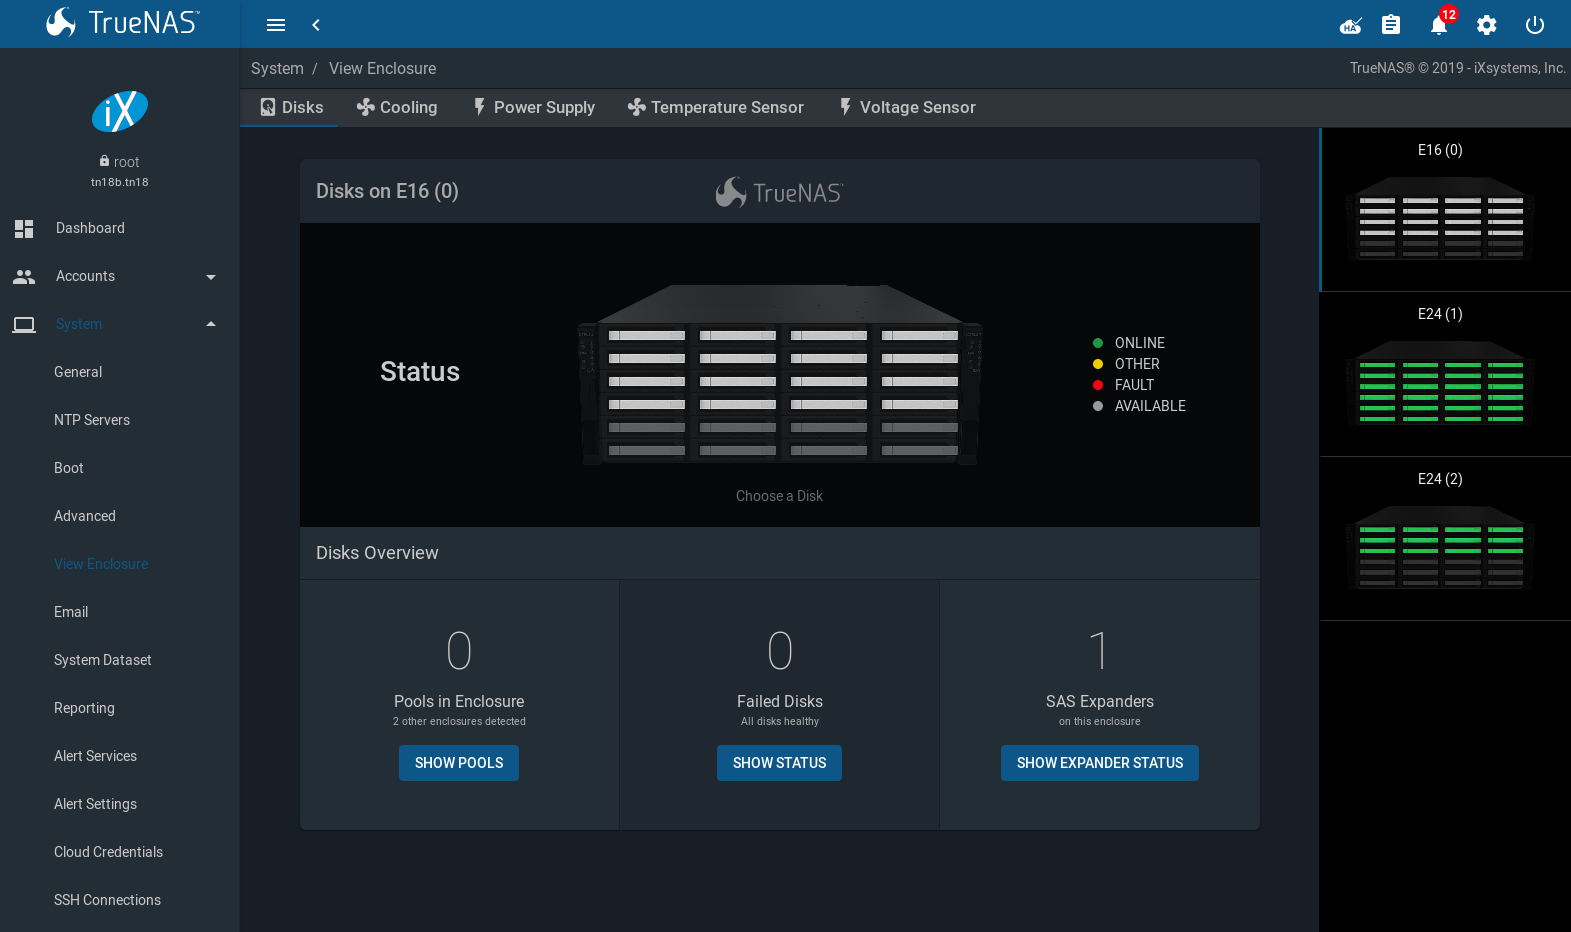
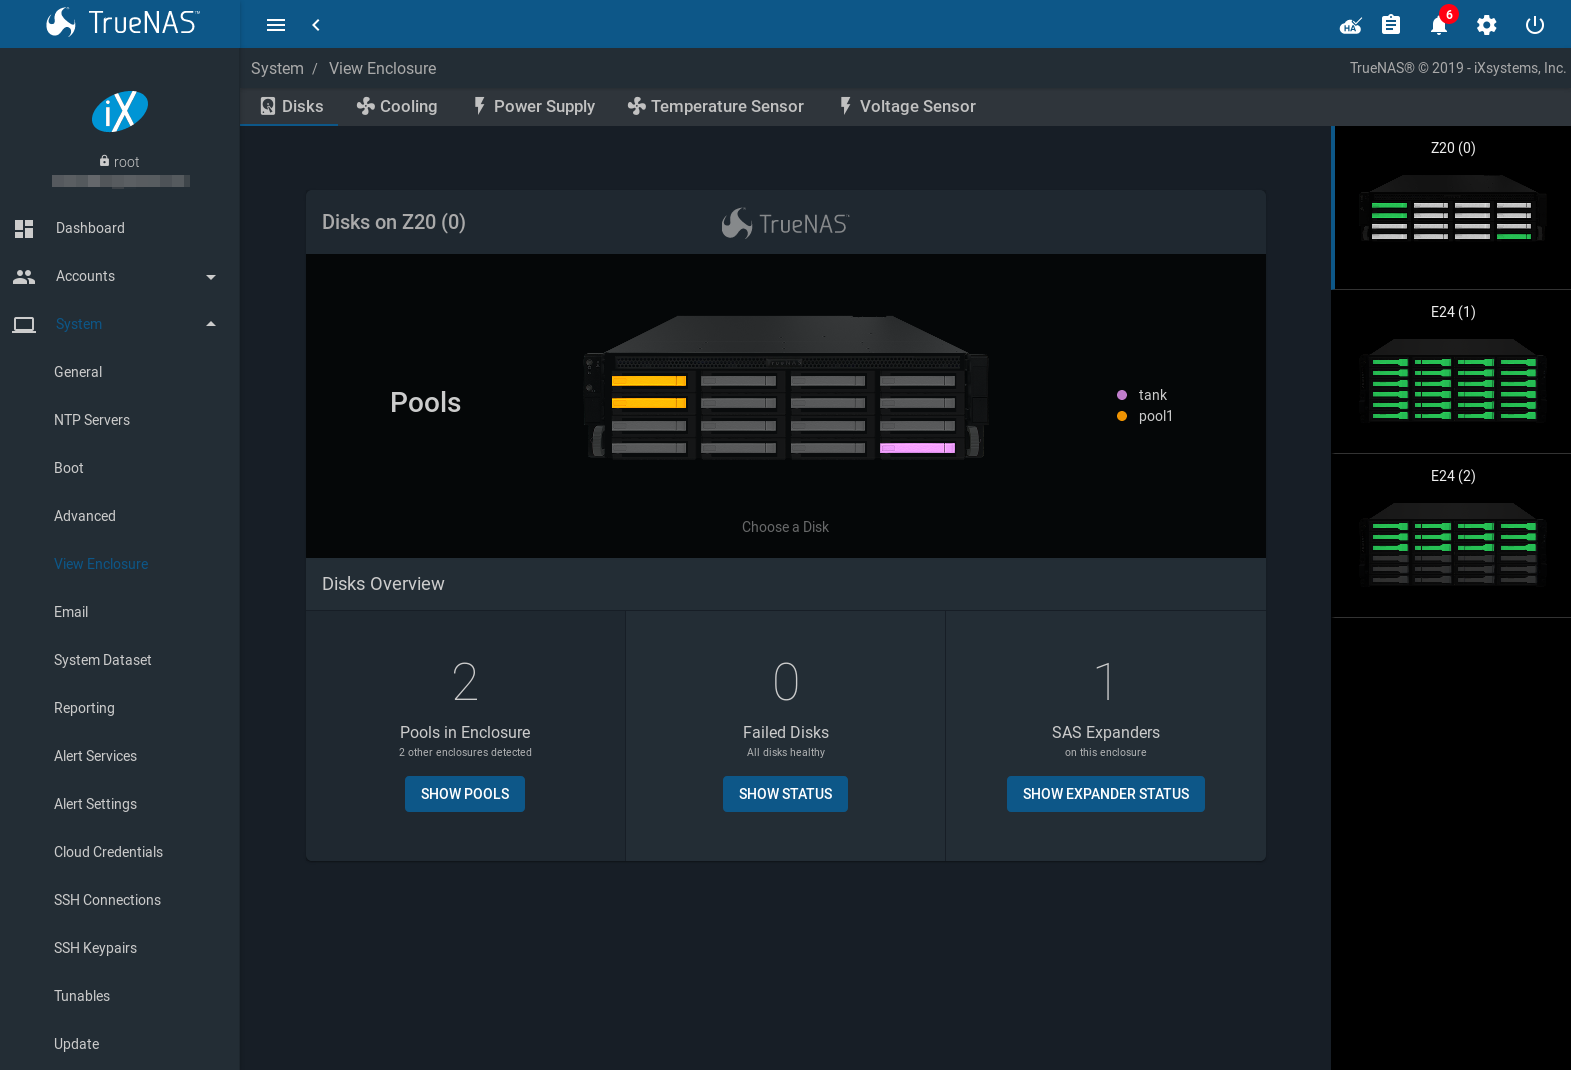
NAS-103066: Update 'View Enclosure' section in TrueNAS guide. - Update related image - Small changes to descriptive text - TrueNAS HTML build test: no issues.

diff --git a/userguide/system.rst b/userguide/system.rst
@@ -957,10 +957,10 @@ screen. Click an enclosure to show details about that hardware.
 The screen is divided into different tabs. These tabs reflect the
 sensors that are active in the chosen hardware.
 
-:guilabel:`Disks` shows a graphic representation of the %brand% hardware.
-The disk slots in the graphic are color-coded to show disk status. Click
-any disk slot to see specific details about the disk like the FreeBSD
-device name, serial number, and current drive settings. The
+:guilabel:`Disks` shows a graphic representation of the %brand% hardware
+and details about connected disks. Click any disk slot to see specific
+details about the disk like the FreeBSD device name, vdev assignment and
+function, serial number, and current drive settings. The
 :guilabel:`IDENTIFY DRIVE` button flashes the identification LED for the
 chosen drive.
 
